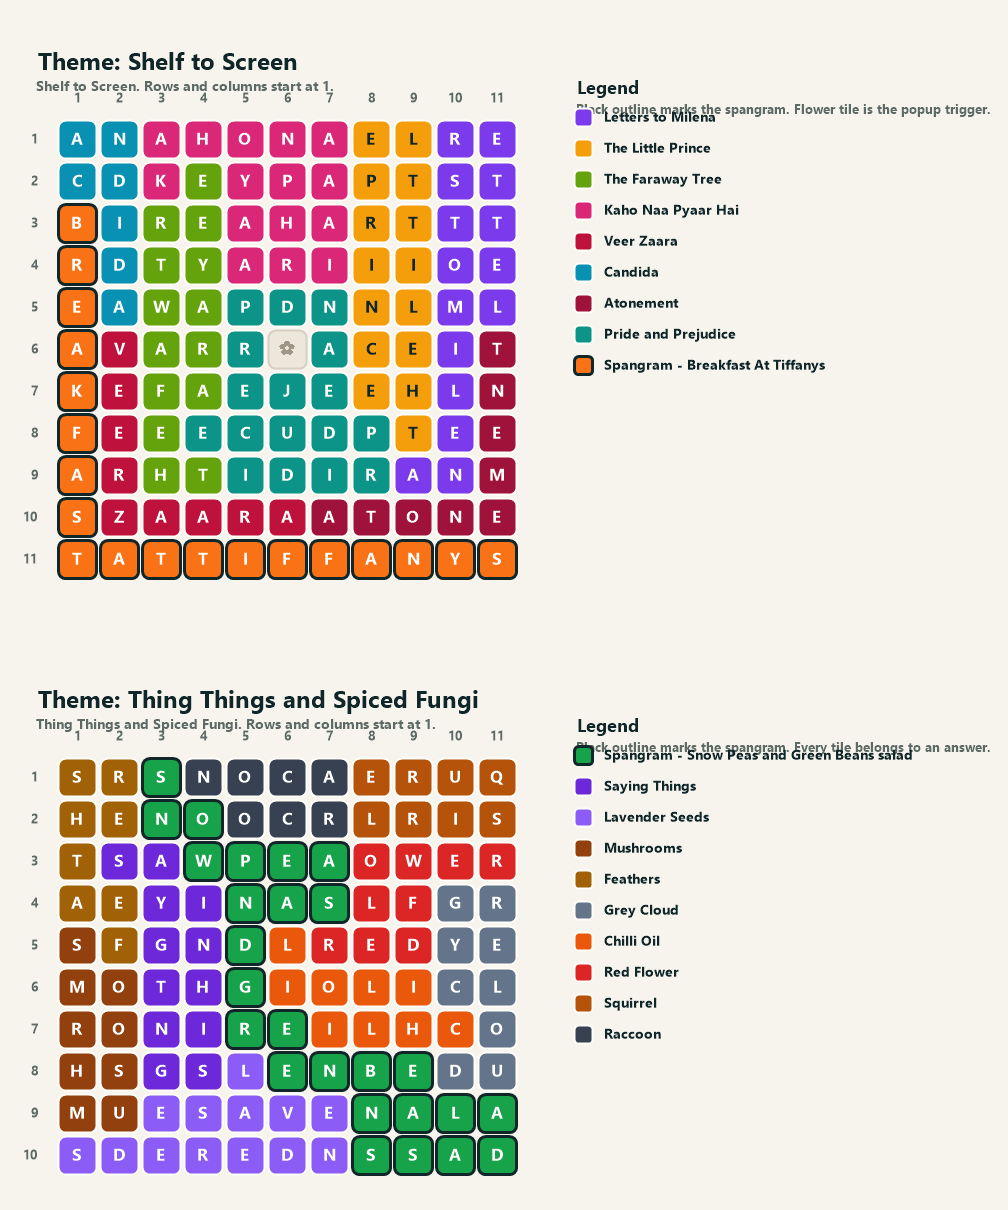
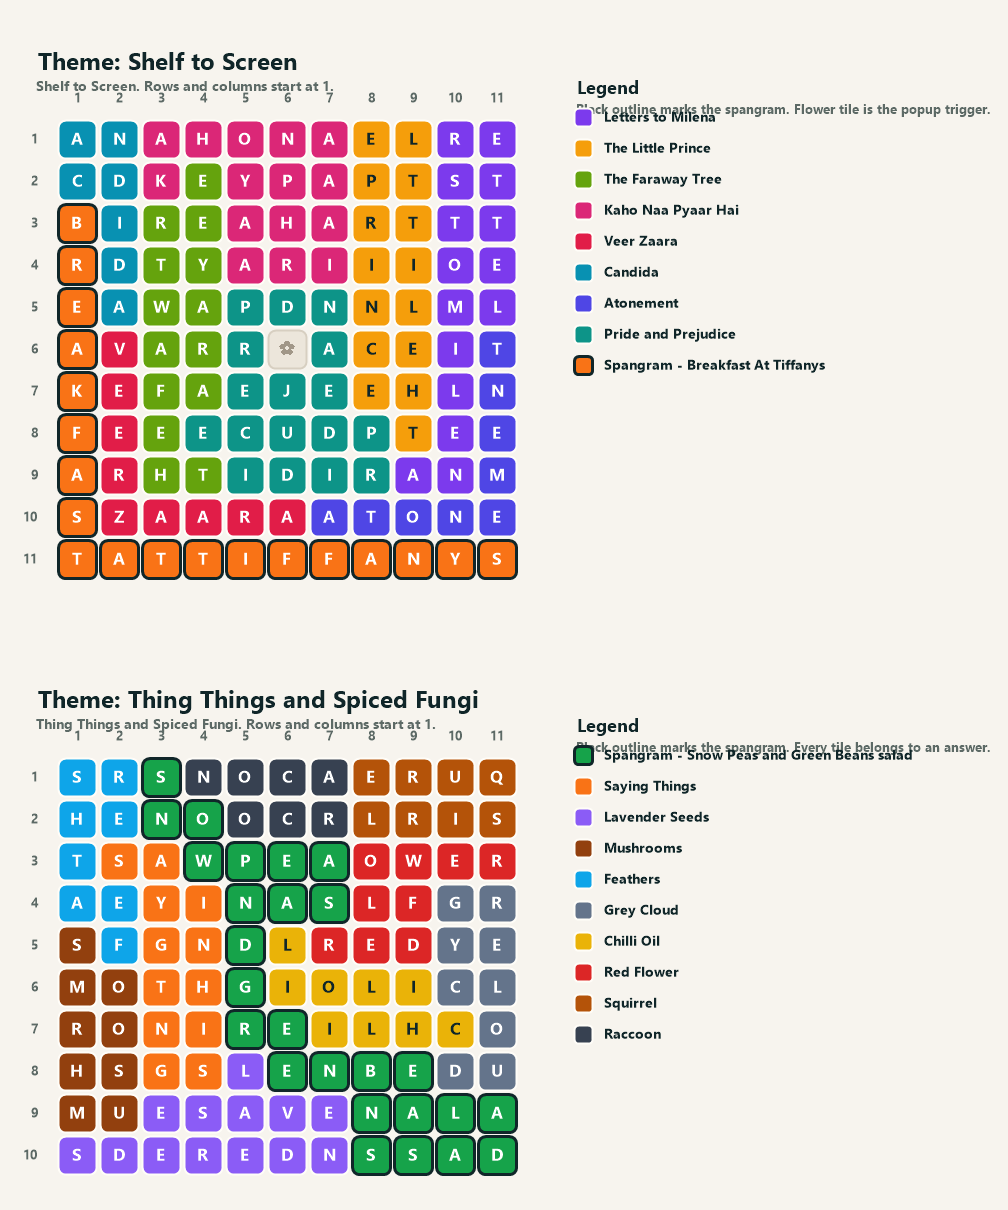
Major changes

diff --git a/puzzle.js b/puzzle.js
@@ -13,7 +13,7 @@ window.BIRTHDAY_STRANDS_PUZZLE = {
       "label": "Theme: Shelf to Screen",
       "theme": "Shelf to Screen",
       "clip": {
-        "src": "assets/shinchan-dance.svg",
+        "src": "https://media1.tenor.com/m/1A5aUPJKlvcAAAAd/shin-chan-dance.gif",
         "durationMs": 3000,
         "type": "image",
         "label": "show Shinchan dancing",
@@ -60,7 +60,7 @@ window.BIRTHDAY_STRANDS_PUZZLE = {
         },
         {
           "word": "Veer Zaara",
-          "color": "#be123c",
+          "color": "#e11d48",
           "path": [[5, 1], [6, 1], [7, 1], [8, 1], [9, 1], [9, 2], [9, 3], [9, 4], [9, 5]]
         },
         {
@@ -70,7 +70,7 @@ window.BIRTHDAY_STRANDS_PUZZLE = {
         },
         {
           "word": "Atonement",
-          "color": "#9f1239",
+          "color": "#4f46e5",
           "path": [[9, 6], [9, 7], [9, 8], [9, 9], [9, 10], [8, 10], [7, 10], [6, 10], [5, 10]]
         },
         {
@@ -87,8 +87,8 @@ window.BIRTHDAY_STRANDS_PUZZLE = {
       ]
     },
     {
-      "label": "Theme: Thing Things and Spiced Fungi",
-      "theme": "Thing Things and Spiced Fungi",
+      "label": "Theme: Thing Things and Vegan Dream",
+      "theme": "Thing Things and Vegan Dream",
       "grid": [
         "SRSNOCAERUQ",
         "HENOOCRLRIS",
@@ -215,7 +215,7 @@ window.BIRTHDAY_STRANDS_PUZZLE = {
         },
         {
           "word": "Saying Things",
-          "color": "#6d28d9",
+          "color": "#f97316",
           "path": [
             [
               2,
@@ -369,7 +369,7 @@ window.BIRTHDAY_STRANDS_PUZZLE = {
         },
         {
           "word": "Feathers",
-          "color": "#a16207",
+          "color": "#0ea5e9",
           "path": [
             [
               4,
@@ -449,7 +449,7 @@ window.BIRTHDAY_STRANDS_PUZZLE = {
         },
         {
           "word": "Chilli Oil",
-          "color": "#ea580c",
+          "color": "#eab308",
           "path": [
             [
               6,

diff --git a/app.js b/app.js
@@ -563,7 +563,8 @@
     }
 
     if (samePoint(lastPoint, point)) {
-      return false;
+      state.selected.pop();
+      return true;
     }
 
     if (previousPoint && samePoint(previousPoint, point)) {
@@ -596,6 +597,7 @@
       statusEl.textContent = "";
       renderSelection();
       renderCells();
+      submitSelectionIfComplete();
     }
 
     return changed;
@@ -642,6 +644,25 @@
     }
   }
 
+  function submitSelectionIfComplete() {
+    const answerIndex = findSelectedAnswer();
+
+    if (answerIndex === -1) {
+      return false;
+    }
+
+    state.found.add(answerIndex);
+    state.hinted.delete(answerIndex);
+    clearSelection(`${getDisplayWord(puzzle.answers[answerIndex])} found.`);
+    render();
+
+    if (state.found.size === puzzle.answers.length) {
+      window.setTimeout(showWin, 250);
+    }
+
+    return true;
+  }
+
   function showHint() {
     statusEl.textContent = "";
     showMediaPopup(getHintClipConfig(), { clearSelection: false });
@@ -666,9 +687,10 @@
       document.getElementById("win-message").textContent = puzzleData.winMessage || "You solved every level.";
       winActionEl.textContent = "Done";
     } else if (nextPuzzleIndex !== -1) {
-      document.getElementById("win-title").textContent = "Key Found";
-      document.getElementById("win-message").textContent = "Puzzle 2 is unlocked.";
-      winActionEl.textContent = "Open Level 2";
+      const nextTheme = puzzles[nextPuzzleIndex].theme || puzzles[nextPuzzleIndex].label || `Level ${nextPuzzleIndex + 1}`;
+      document.getElementById("win-title").textContent = "Level Complete";
+      document.getElementById("win-message").textContent = "Continue to the next puzzle.";
+      winActionEl.textContent = `Continue to ${nextTheme}`;
       winDialog.dataset.nextPuzzleIndex = String(nextPuzzleIndex);
     } else {
       document.getElementById("win-title").textContent = `${puzzle.label || "Level"} solved`;

diff --git a/index.html b/index.html
@@ -4,7 +4,7 @@
     <meta charset="utf-8">
     <meta name="viewport" content="width=device-width, initial-scale=1">
     <title>Birthday Strands</title>
-    <link rel="stylesheet" href="styles.css?v=20260506-2">
+    <link rel="stylesheet" href="styles.css?v=20260506-3">
   </head>
   <body>
     <canvas id="confetti" class="confetti" aria-hidden="true"></canvas>
@@ -72,7 +72,7 @@
     <dialog id="win-dialog" class="win-dialog">
       <form method="dialog">
         <p class="win-kicker">Solved</p>
-        <img id="final-art" class="final-art" src="assets/cat-trumpets.svg" alt="" aria-hidden="true">
+        <img id="final-art" class="final-art" src="https://media.giphy.com/media/E6h7uDtoFrqpdS8O4P/giphy.gif" alt="" aria-hidden="true">
         <h2 id="win-title">Happy Birthday!</h2>
         <p id="win-message">You found every word.</p>
         <button id="win-action" type="submit" class="primary">Done</button>
@@ -84,7 +84,7 @@
       <img id="clip-image" class="clip-image" alt="">
     </dialog>
 
-    <script src="puzzle.js?v=20260506-2"></script>
-    <script src="app.js?v=20260506-3"></script>
+    <script src="puzzle.js?v=20260506-3"></script>
+    <script src="app.js?v=20260506-6"></script>
   </body>
 </html>

diff --git a/styles.css b/styles.css
@@ -37,15 +37,19 @@ body {
 }
 
 body::after {
-  background: url("assets/flower-bed.svg") bottom center / min(1180px, 150vw) auto repeat-x;
+  background:
+    linear-gradient(180deg, rgba(247, 244, 238, 0), rgba(247, 244, 238, 0.12) 42%, rgba(247, 244, 238, 0.3)),
+    url("https://cdn.pixabay.com/photo/2018/05/09/20/19/wild-flower-meadow-3386078_1280.jpg") center bottom / cover no-repeat;
   bottom: 0;
   content: "";
-  height: 210px;
+  height: clamp(220px, 30vh, 340px);
   left: 0;
-  opacity: 0.94;
+  opacity: 0.84;
   pointer-events: none;
   position: fixed;
   right: 0;
+  -webkit-mask-image: linear-gradient(180deg, transparent, rgba(0, 0, 0, 0.55) 28%, #000 58%);
+  mask-image: linear-gradient(180deg, transparent, rgba(0, 0, 0, 0.55) 28%, #000 58%);
   z-index: 0;
 }
 
